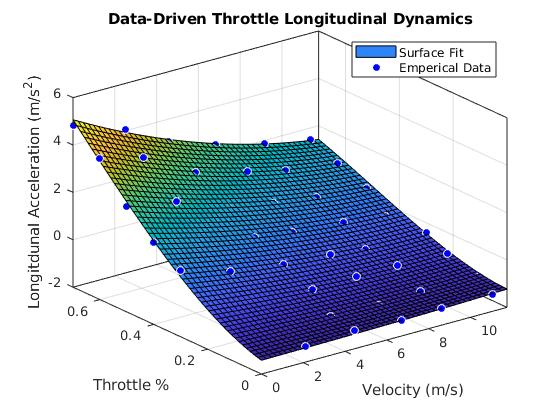
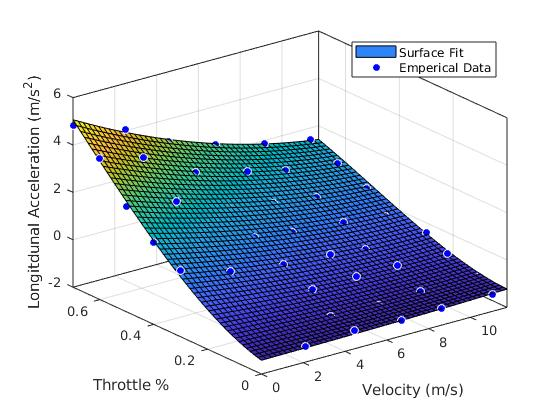
updated pics with no title

Changed region(s): [[0.1821, 0.031, 0.85, 0.0619]]

diff --git a/throttle_data_speedaccel_standard_final.m b/throttle_data_speedaccel_standard_final.m
@@ -471,5 +471,5 @@ throttle = [0, 0, 0, 0, 0, 10, 10, 10, 10, 10, 20, 20, 20, 20, 20, 30, 30, 30, 3
 throttle1 = 0.01*throttle;
 
 % createFit(speed, throttle, acceleration)
-throttleDynamics(speed, throttle1, acceleration)
+throttleDynamics(speed, throttle, acceleration)
 cftool

diff --git a/throttleDynamics.m b/throttleDynamics.m
@@ -34,7 +34,7 @@ ylabel( 'Throttle %', 'Interpreter', 'none' );
 zlabel( 'Longitdunal Acceleration (m/s^{2})');
 
 % Title
-title('Data-Driven Throttle Longitudinal Dynamics')
+% title('Data-Driven Throttle Longitudinal Dynamics')
 grid on
 
 
